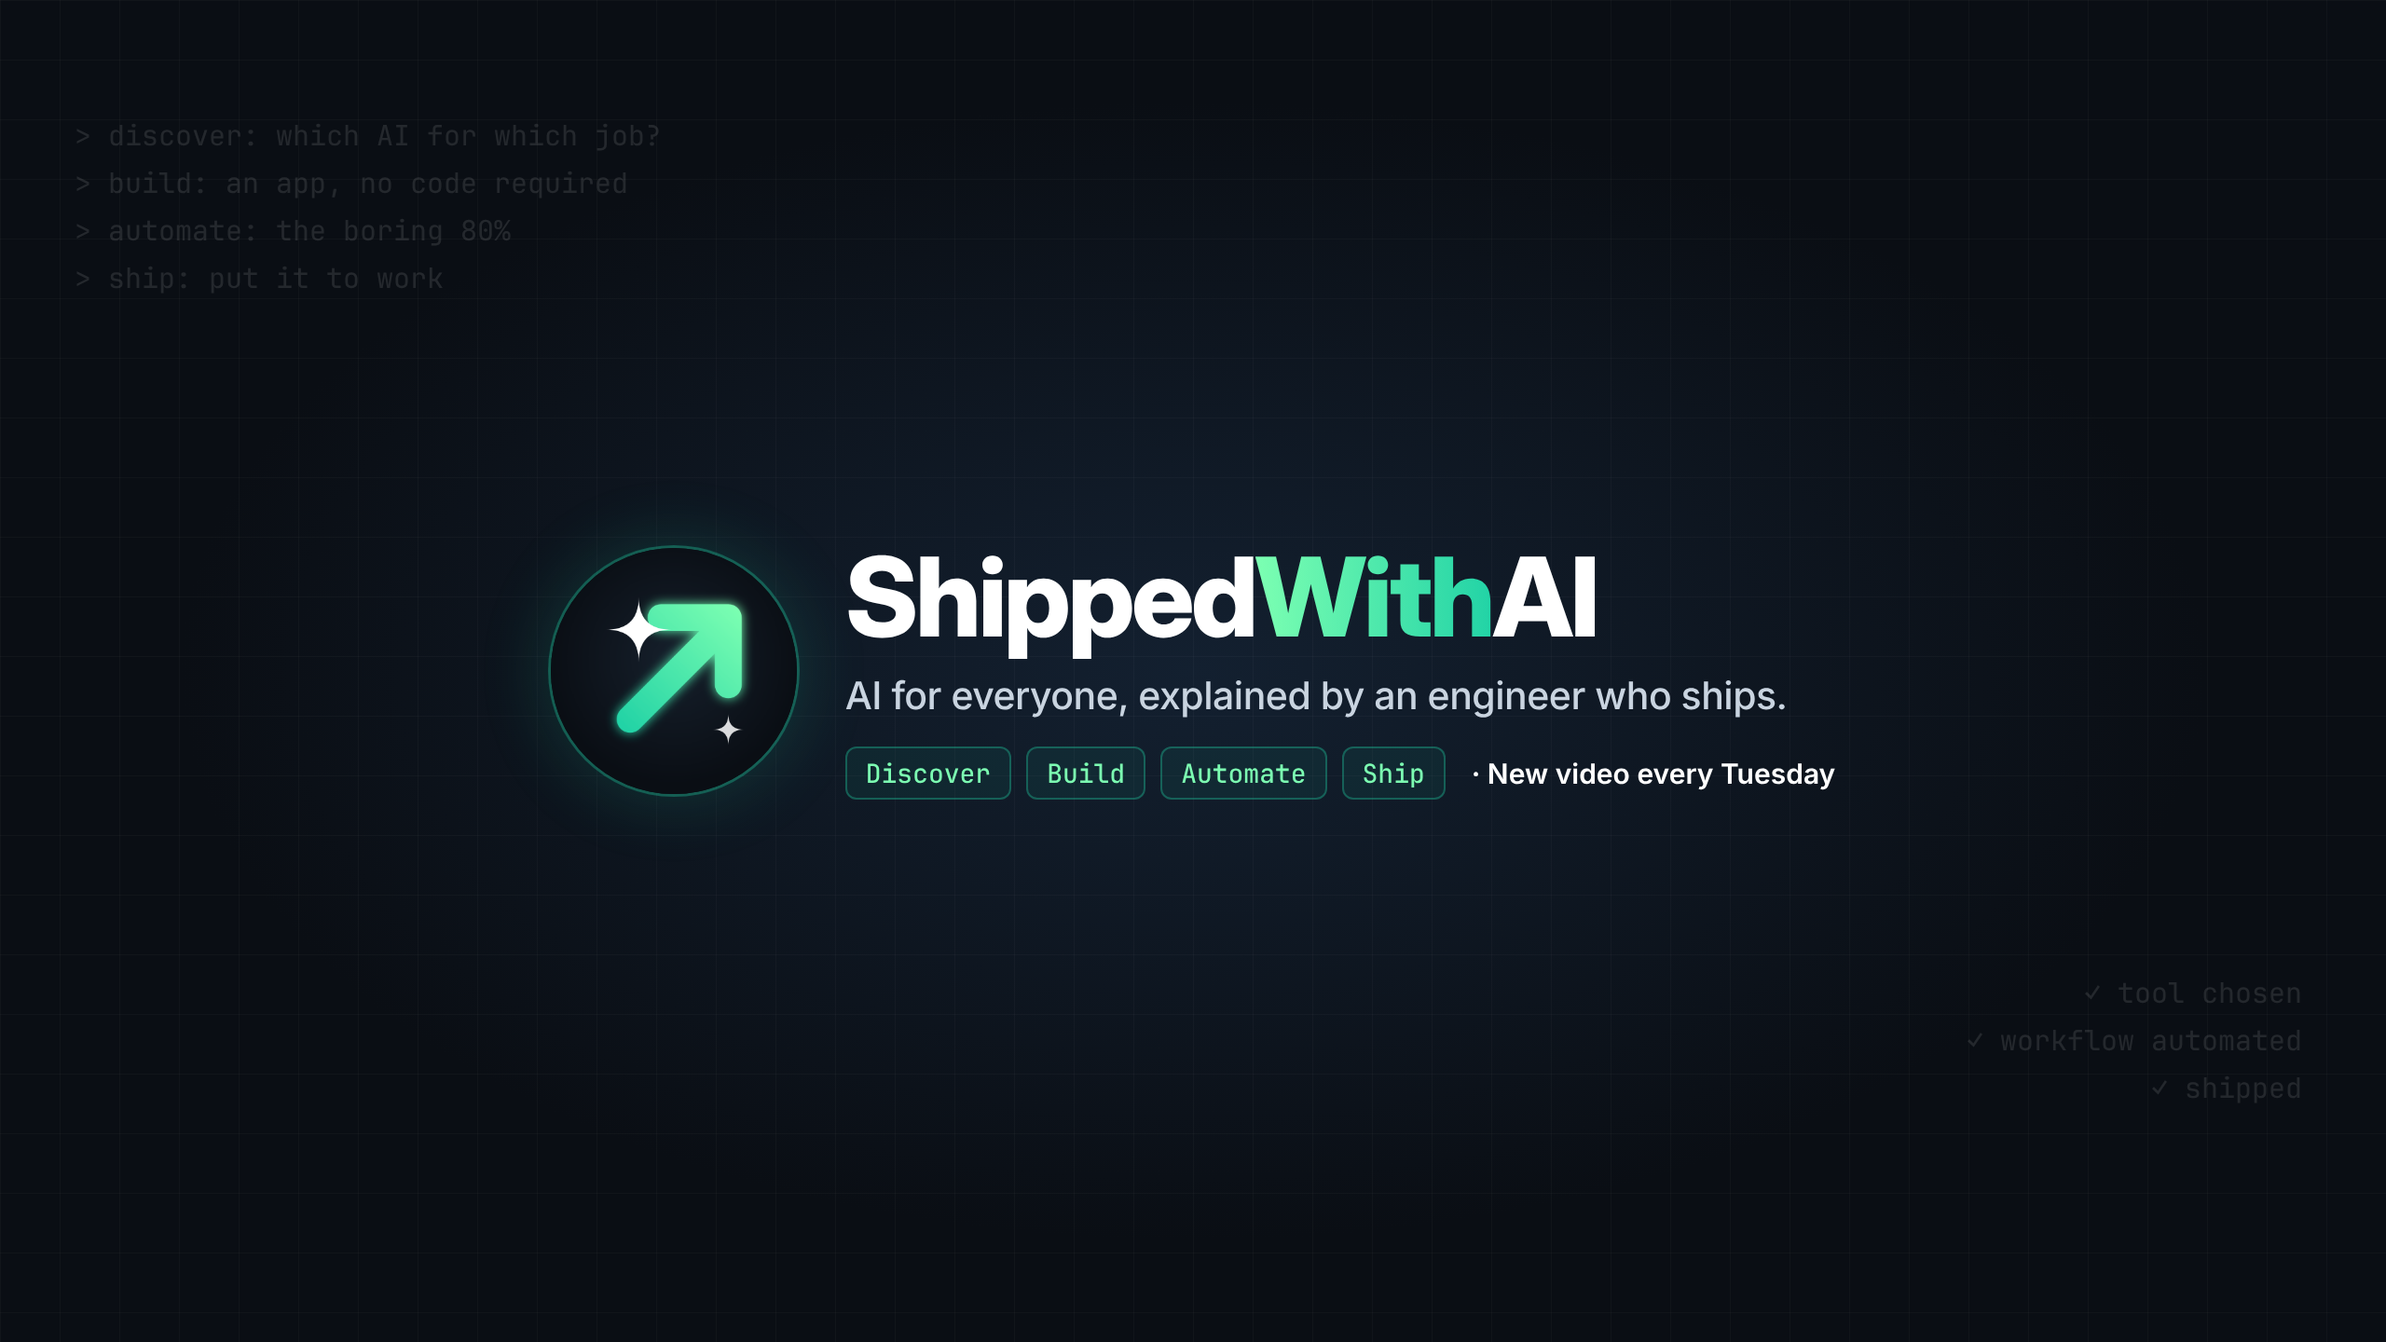
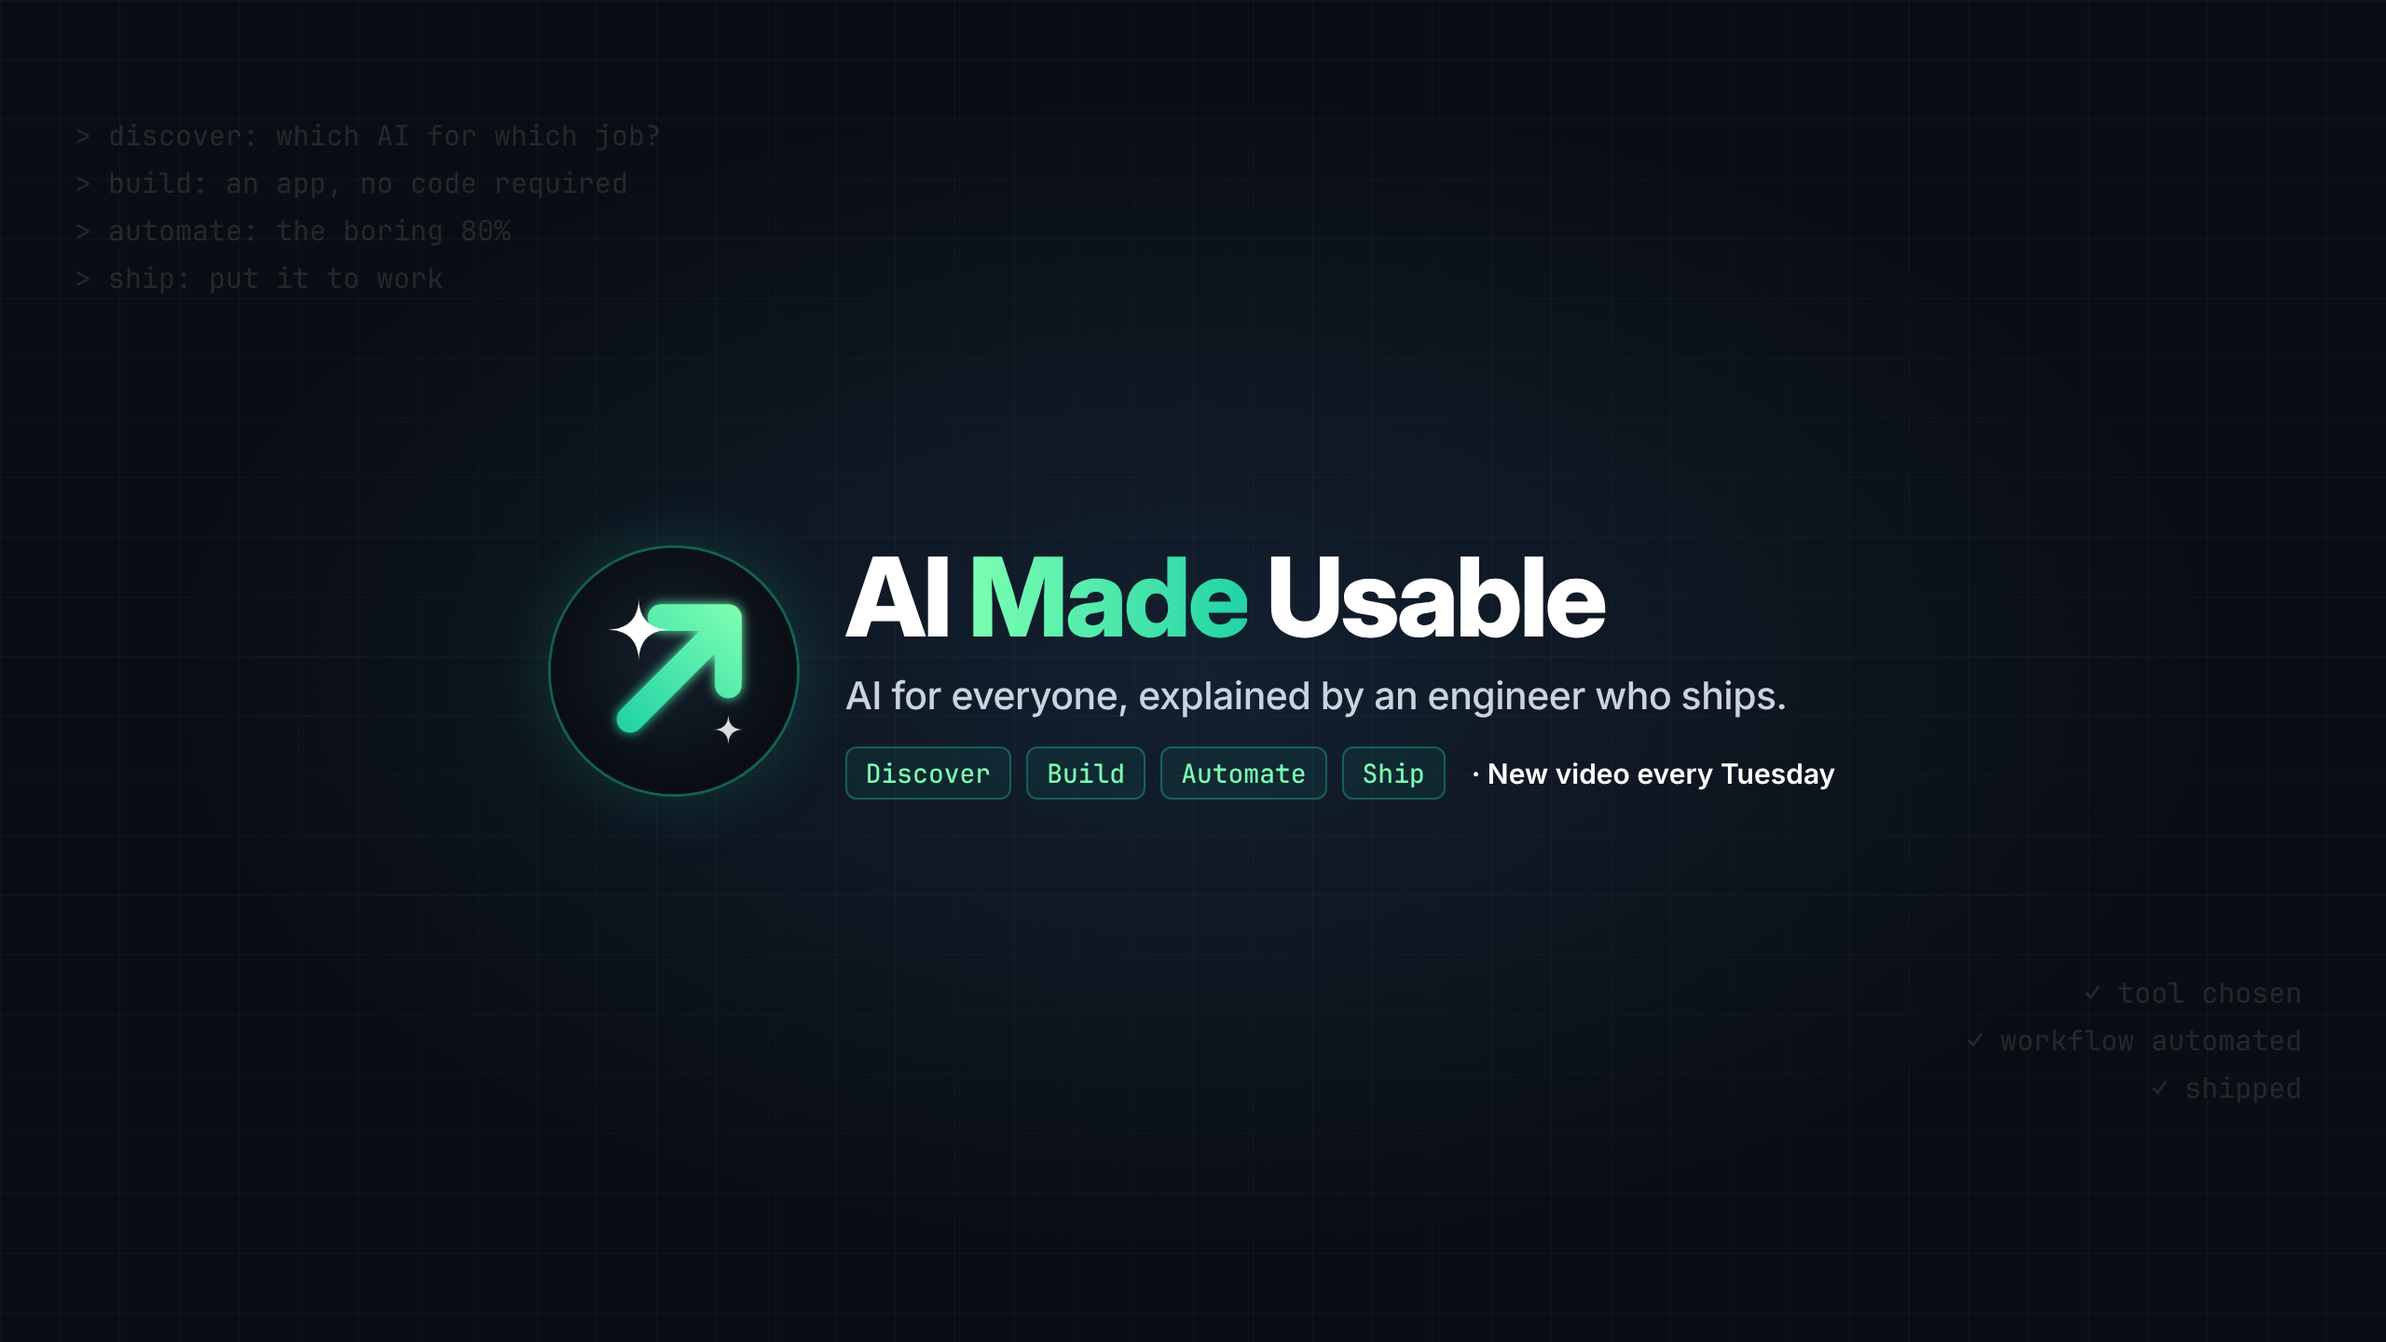
Rename channel to AI Made Usable (@aimadeusable)
- Banner wordmark re-rendered; logo and watermark unchanged
- About, keywords, channel profile, identity, CLAUDE.md, README,
  handoff and status updated; history and dated reports preserved
- DEC-017 approved by the creator and implemented in the repo

Claude-Session: https://claude.ai/code/session_013uvwg1uP8JcBnRhYavDvE1

Changed region(s): [[0.3438, 0.4062, 0.6875, 0.5]]

diff --git a/brand/assets/src/banner.html b/brand/assets/src/banner.html
@@ -24,7 +24,7 @@ h1 span{background:linear-gradient(90deg,#7CFFB2,#22D3A6);-webkit-background-cli
 <div class="safe">
  <img class="mark" src="../logo.png">
  <div class="text">
-  <h1>Shipped<span>With</span>AI</h1>
+  <h1>AI <span>Made</span> Usable</h1>
   <div class="tag">AI for everyone, explained by an engineer who ships.</div>
   <div class="row"><div class="chip">Discover</div><div class="chip">Build</div><div class="chip">Automate</div><div class="chip">Ship</div><div class="when">· New video every Tuesday</div></div>
  </div>

diff --git a/brand/channel-profile.md b/brand/channel-profile.md
@@ -4,9 +4,9 @@
 > (DEC-005 / DEC-006, produced at the creator's request on 2026-11-21). The creator uploads them in YouTube Studio
 > (no integration can edit channel branding). Live state last checked: the About is empty (Windsor.ai, 2026-11-21).
 
-- **Name:** ShippedWithAI
-- **Handle:** @shippedwithaihq
-- **URL:** https://www.youtube.com/@shippedwithaihq
+- **Name:** AI Made Usable (renamed from ShippedWithAI on 2026-11-21, DEC-017)
+- **Handle:** @aimadeusable (to be claimed in Studio; previous handle @shippedwithaihq)
+- **URL:** https://www.youtube.com/@aimadeusable (after the handle change)
 - **Channel ID:** UCa2_ah_ehFCOyIn_QUt8t-w
 - **Country:** India
 - **Publish slot:** Long-form Tuesday 7:30 pm IST (9 am US Eastern). Shorts cadence: DEC-002 (daily) unless DEC-012 changes it. Shorts time not set.
@@ -20,12 +20,12 @@
 | Video watermark | `brand/assets/watermark.png` | 300×300 transparent PNG, round badge (optional; ≤1 MB) |
 
 ## Description (About)
-Final, written by the creator and lightly edited by Claude (2026-11-21). 709 characters (limit 1,000). Paste exactly:
+Final, written by the creator and lightly edited by Claude (2026-11-21). 710 characters (limit 1,000). Paste exactly:
 
 ```
 Discover. Build. Automate. Ship.
 
-AI is changing the way we learn, work and create. At ShippedWithAI, we show you how to actually use it in everyday life.
+AI is changing the way we learn, work and create. At AI Made Usable, we show you how to actually use it in everyday life.
 
 Whether you're a student, working professional, founder, creator or developer, you'll find practical ways to make AI work for you.
 
@@ -39,16 +39,17 @@ New videos every Tuesday. Shorts daily.
 ```
 
 ## Channel keywords
-AI tools, how to use AI, AI agents, AI automation, build with AI, no code AI, Claude, ChatGPT, Gemini, vibe coding, AI for business, AI productivity, learn AI, AI for beginners, ShippedWithAI
+AI tools, how to use AI, AI agents, AI automation, build with AI, no code AI, Claude, ChatGPT, Gemini, vibe coding, AI for business, AI productivity, learn AI, AI for beginners, AI Made Usable
 
 ## Upload defaults
 - Category: Science & Technology
 - Language: English
 - License: Standard YouTube License
 - Audience: Not made for kids
-- Default tags: AI, AI tools, ShippedWithAI (plus topic tags per video, see `strategy/seo-packaging.md`)
+- Default tags: AI, AI tools, AI Made Usable (plus topic tags per video, see `strategy/seo-packaging.md`)
 
 ## History
+- **2026-11-21:** Renamed ShippedWithAI → AI Made Usable (DEC-017). The About text only changed "At ShippedWithAI" → "At AI Made Usable"; keyword "ShippedWithAI" → "AI Made Usable".
 - **2026-11-21 (Claude draft, replaced the same day by the creator's version above):**
   > Discover. Build. Automate. Ship. / ShippedWithAI helps you actually use AI, whether you're a student, a working professional, a founder, a creator or a developer. / I'm a software engineer who builds real things with AI. Every week I show you: → which AI tools to use for which job (ChatGPT, Claude, Gemini and more) → how to build apps and AI agents, often without writing code → how to automate the repetitive parts of your work and business → what actually holds up when you ship it: the wins, the limits and the mistakes / No hype. No fake demos. Just AI you can use. / 🎬 New video every Tuesday.
 - **2026-11-19 → 2026-11-21 (v1, developer-only, superseded by DEC-001):**

diff --git a/research/opportunities.md b/research/opportunities.md
@@ -20,6 +20,6 @@ Evidence refers to `research/competitors/snapshots/2026-11-21-phase1-channel-sca
 | OPP-010 | 2026-11-21 | Automate one real small-business process end-to-end (e.g. leads → follow-up → invoice) | Automate / Ship | BIZ, FRE | Beginner–intermediate | "Where do I start automating?" | Copyable workflow + template | Medium | n8n/agent courses 1.3–2.7M. Deloitte: only 5% of orgs "ready" | OPEN |
 | OPP-011 | 2026-11-21 | Local/private AI for normal people (run models on your laptop) | Discover / Build | PRO, ENT, ADV | Intermediate | Privacy, cost | Free + private AI | Medium | Tina Huang 2.3M. Greg Isenberg 541K. Kevin Stratvert "Ollama" 254K | OPEN |
 | OPP-012 | 2026-11-21 | Short workflow tips: one trick per Short (Claude .md files, Projects, Artifacts, Gemini/ChatGPT features) | Discover / Build | PRO, BEG, DEV | Any | "Use AI better" | 1 tip in <60 s | Broad | Greg Isenberg Shorts 473–846K. Futurepedia Shorts | OPEN |
-| OPP-013 | 2026-11-21 | "How we run ShippedWithAI with AI": public build log of the channel's own AI workflow | Ship | CRE, BIZ | Any | "Can AI run a YouTube channel?" | A real, ongoing case study | Medium | Modern Millie "30 days of content with AI" 350K. Unique: our repo/workflow is real | OPEN |
+| OPP-013 | 2026-11-21 | "How we run AI Made Usable with AI": public build log of the channel's own AI workflow | Ship | CRE, BIZ | Any | "Can AI run a YouTube channel?" | A real, ongoing case study | Medium | Modern Millie "30 days of content with AI" 350K. Unique: our repo/workflow is real | OPEN |
 | OPP-014 | 2026-11-21 | Learn AI roadmap 2027: what to learn, by role (student / professional / developer) | Discover | STU, PRO, BEG | Beginner | "Where do I even start?" | A personal plan | Broad | Tina Huang "AI Roadmap" 540K. Tejas AI 433K on 38K subs. Dan Martell "You're not behind (yet)" 3.4M | OPEN |
 | OPP-015 | 2026-11-21 | Freelancers: a real client-style AI project, priced and delivered (anti-hype) | Ship | FRE | Intermediate | "Can I actually earn with AI skills?" | Realistic numbers, process | Medium | Side-hustle videos 0.3–1.7M, low medians. Hype fatigue (H) | OPEN |

diff --git a/status/handoff-prompt.md b/status/handoff-prompt.md
@@ -3,10 +3,10 @@
 Paste the block below into a new session to give it full context. Source of truth is still the repo; this is a summary.
 
 ```text
-You are continuing work on ShippedWithAI, a YouTube channel. The GitHub repo iayushpathak-dev/youtube is the permanent memory and source of truth. Working branch: claude/adoring-pasteur-aywagg. The repo default branch is claude/gifted-gates-6r6omc (no main). PR #1 (initialization) was merged. Phase 1 research is on the working branch. FIRST: read CLAUDE.md, INDEX.md, status/STATUS.md and status/decisions.md, run git status / git log, then continue from the documented state. The creator often writes in Hinglish. Reply in their language, and write repo docs in English.
+You are continuing work on AI Made Usable (formerly ShippedWithAI; renamed 2026-11-21, DEC-017), a YouTube channel. The GitHub repo iayushpathak-dev/youtube is the permanent memory and source of truth. Working branch: claude/adoring-pasteur-aywagg. The repo default branch is claude/gifted-gates-6r6omc (no main). PR #1 (initialization) was merged. Phase 1 research is on the working branch. FIRST: read CLAUDE.md, INDEX.md, status/STATUS.md and status/decisions.md, run git status / git log, then continue from the documented state. The creator often writes in Hinglish. Reply in their language, and write repo docs in English.
 
 == CHANNEL ==
-- Name: ShippedWithAI · Handle: @shippedwithaihq · Channel ID: UCa2_ah_ehFCOyIn_QUt8t-w · Creator based in India.
+- Name: AI Made Usable · Handle: @aimadeusable (being claimed; was @shippedwithaihq) · Channel ID: UCa2_ah_ehFCOyIn_QUt8t-w · Creator based in India.
 - State on 2026-11-21 (Windsor.ai, FACT): 0 subscribers, 0 videos, 0 views, About description empty.
 - The creator is a senior frontend developer but wants a broad AI audience.
 

diff --git a/research/audience/segments.md b/research/audience/segments.md
@@ -1,7 +1,7 @@
 # Audience segments
 
 Evidence pass: **2026-11-21** (Phase 1). Each row separates FACT evidence (with source) from HYPOTHESIS needs.
-Supply = how crowded the segment is on YouTube. Demand = observed views on segment-targeted content. Fit = credibility of ShippedWithAI (a senior frontend developer, building real things).
+Supply = how crowded the segment is on YouTube. Demand = observed views on segment-targeted content. Fit = credibility of the channel (a senior frontend developer, building real things).
 Priority is a **recommendation** (DEC-011, PROPOSED), not approved.
 
 | Code | Segment | Demand evidence (FACT, 2026-11-21) | Supply / competition (FACT) | Likely needs & struggles (HYPOTHESIS) | Fit | Recommended priority |
@@ -20,4 +20,4 @@ Priority is a **recommendation** (DEC-011, PROPOSED), not approved.
 ## Cross-segment bridge (HYPOTHESIS, the strongest positioning opportunity)
 The same topic serves multiple segments when framed as **"build/automate X with AI, explained by someone who actually ships software"**.
 Evidence: no-code agent/app tutorials pull large numbers across BEG, PRO and BIZ (above), while developer channels mostly teach developers.
-ShippedWithAI's edge is engineering credibility applied to non-developer outcomes, with an honest "what breaks" layer.
+AI Made Usable's edge is engineering credibility applied to non-developer outcomes, with an honest "what breaks" layer.

diff --git a/status/STATUS.md b/status/STATUS.md
@@ -1,5 +1,7 @@
 # Project status
 
+**Channel:** AI Made Usable (@aimadeusable), renamed from ShippedWithAI on 2026-11-21 (DEC-017).
+
 **Last updated:** 2026-11-21 · **Phase:** 1, Research ✅ report delivered → **waiting for the creator's decisions** → next: Phase 2, launch calendar + first scripts (only after approval)
 
 ## Channel state (FACT, Windsor.ai, 2026-11-21)
@@ -38,7 +40,7 @@
 | # | Task | Owner | Blocked by |
 |---|---|---|---|
 | T1 | Phase 2: launch calendar + first scripts | Claude | DEC-010, 011, 012, 013, 016 |
-| T2 | Upload logo, banner, watermark + paste About/keywords in YouTube Studio (files: `brand/channel-profile.md`) | Creator | — (approved 2026-11-21) |
+| T2 | In YouTube Studio: change the name to **AI Made Usable** + handle **@aimadeusable**, upload logo/banner/watermark, paste About + keywords (`brand/channel-profile.md`) | Creator | — (approved 2026-11-21) |
 | T3 | Shorts narration setup | Claude | DEC-013 → DEC-008 |
 | T4 | `npm install` Remotion/HyperFrames when production starts | Claude | Phase 2 |
 | T5 | Decide the daily/regular Shorts publish time | Creator | DEC-012 |

diff --git a/CLAUDE.md b/CLAUDE.md
@@ -1,11 +1,11 @@
-# CLAUDE.md: ShippedWithAI operating instructions
+# CLAUDE.md: AI Made Usable operating instructions
 
-This repository is the **permanent memory and source of truth** for the ShippedWithAI YouTube channel.
+This repository is the **permanent memory and source of truth** for the **AI Made Usable** YouTube channel (formerly ShippedWithAI, renamed 2026-11-21, DEC-017).
 Anything not written here is not known to the next session. Read this file in full at the start of every session.
 
 ## 1. Project identity (approved, DEC-001)
 
-- **Name:** ShippedWithAI · **Handle:** @shippedwithaihq · **Channel ID:** UCa2_ah_ehFCOyIn_QUt8t-w
+- **Name:** AI Made Usable · **Handle:** @aimadeusable (previously @shippedwithaihq; the creator claims the new handle in Studio) · **Channel ID:** UCa2_ah_ehFCOyIn_QUt8t-w
 - **Positioning:** *Discover. Build. Automate. Ship.*
 - **Vision:** Build a global YouTube brand that helps everyone understand, explore, use and build with AI.
 - **Audience:** students, beginners, developers, software engineers, content creators, entrepreneurs,

diff --git a/status/decisions.md b/status/decisions.md
@@ -133,3 +133,4 @@ Never delete entries. Mark superseded ones with `SUPERSEDED by DEC-###`.
 - **Recommendation:** **AI Made Usable**. It states the promise ("Just useful AI") for every segment, is distinct in search, and doesn't overlap with dropshipping. The tagline "Discover. Build. Automate. Ship." and the logo mark still fit.
 - **Impact if changed:** banner text, About first lines, repo docs, CLAUDE.md identity, handle. The logo mark and watermark are unaffected. Renaming is cheapest now (0 videos).
 - **Status:** PROPOSED. A major brand change needs the creator's explicit choice.
+- **Approval record:** The creator, 2026-11-21: "aimadeusable and AI Made Usable". → **APPROVED → IMPLEMENTED** in the repo (banner re-rendered, About, keywords, CLAUDE.md, identity, profile, handoff). The positioning/tagline, logo and watermark are unchanged. **Pending:** the creator changes the name + handle in YouTube Studio. The handle is not guaranteed until Studio accepts it.

diff --git a/reports/research/2026-11-21-phase-1-research-report.md b/reports/research/2026-11-21-phase-1-research-report.md
@@ -1,5 +1,7 @@
 # Phase 1 research report: ShippedWithAI
 
+> Note (2026-11-21, after this report): the channel was renamed **AI Made Usable** (DEC-017). The report is kept as written.
+
 **Date:** 2026-11-21 · **Status:** for the creator's review. Every recommendation here is PROPOSED (DEC-005, 006, 008–016). Nothing is approved by this report.
 **Labels:** **FACT** = observed, dated, sourced · **HYPOTHESIS** = inference to test · **REC** = recommendation.
 

diff --git a/brand/visual-guidelines.md b/brand/visual-guidelines.md
@@ -44,4 +44,4 @@ The accent gradient is mint → teal at 90° for text and diagonal for marks. Ke
 ## Shorts visual style (PROPOSED)
 - Burned-in captions in Inter Black, white with a mint highlight on the key word, centred in the upper-middle area.
 - Hook text on screen in the first second.
-- Brand corner tag `>_ ShippedWithAI` in JetBrains Mono at low opacity.
+- Brand corner tag `AI Made Usable` in JetBrains Mono at low opacity.

diff --git a/brand/identity.md b/brand/identity.md
@@ -1,5 +1,7 @@
 # Brand identity & positioning
 
+**Channel name:** AI Made Usable (@aimadeusable). Renamed from ShippedWithAI on 2026-11-21 (DEC-017): the old name collided with @shippedwithai, near-identical small channels and "AI dropshipping" search results.
+
 Status: positioning, vision and audience are **APPROVED** (DEC-001, 2026-11-21). Everything marked *PROPOSED* still needs approval.
 
 ## Positioning

diff --git a/README.md b/README.md
@@ -1,6 +1,6 @@
-# ShippedWithAI
+# AI Made Usable
 
-**Discover. Build. Automate. Ship.** A YouTube channel helping everyone understand, explore, use and build with AI.
+**Discover. Build. Automate. Ship.** A YouTube channel (formerly ShippedWithAI) helping everyone understand, explore, use and build with AI.
 
 This repository is the channel's operating system and permanent memory.
 
